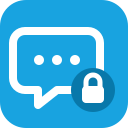
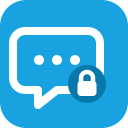
Recenter integration branding

Changed region(s): [[0.5312, 0.5, 0.9062, 0.875]]

diff --git a/README.md b/README.md
@@ -13,7 +13,7 @@ Home Assistant Chat is a local custom integration with a native sidebar panel.
 It runs inside Home Assistant and does not require a separate add-on or chat
 server for local use.
 
-Current experimental version: **0.1.15**
+Current experimental version: **0.1.16**
 
 ## Installation
 
